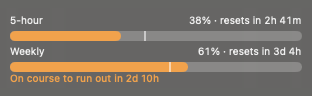
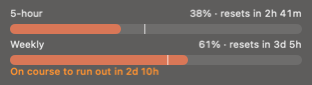
README: 0.7.0 screenshots (#18)
The four README screenshots were from before Codex support, the tool
colours and the plan badges; the Usage one still showed an 'Update to
0.5.2' footer. Replace them with the renders made for the website's
0.7.0 refresh, from the real views on fabricated data, and describe
them accordingly.

diff --git a/README.md b/README.md
@@ -6,7 +6,7 @@ A macOS menu bar app that shows how much of your Claude plan's limits you've use
 every Claude Code account on your Mac at once. More at
 [dpurdy.me/apps/headroom](https://dpurdy.me/apps/headroom/).
 
-<img src="assets/screenshots/usage.png" width="340" alt="The Headroom menu: one card per account with 5-hour and weekly bars, pace lines, reset countdowns, today's cost, and open sessions with prompt cache countdowns">
+<img src="assets/screenshots/usage.png" width="340" alt="The Headroom menu: a Claude card in terracotta and a Codex card in blue, each with 5-hour and weekly bars, a pace line on each and reset countdowns; the Claude card adds a model's own weekly limit, extra usage, today's cost and the open sessions with their prompt cache countdowns">
 
 - **5-hour and weekly limits** per account, with reset countdowns. The menu bar shows one
   column per account: its label beside two small bars with percentages, 5-hour on top and
@@ -14,7 +14,7 @@ every Claude Code account on your Mac at once. More at
 - **Pace** for each limit: a line showing how much of the window has passed, and when you'd
   run out if you carry on at the rate so far.
 
-  <img src="assets/screenshots/pace.png" width="312" alt="A 5-hour bar at 38%, ahead of its pace line, and a weekly bar at 61%, with a note that it will run out in 2 days 10 hours at this rate">
+  <img src="assets/screenshots/pace.png" width="312" alt="A 5-hour bar at 38% with the pace line ahead of it, and a weekly bar at 61% with the line behind it and the note 'On course to run out in 2d 10h'">
 - **Open Claude Code sessions** per account, with model and context used. Sessions that
   haven't replied for 15 minutes are marked idle.
 - **Prompt cache countdown** per session: how long until the conversation's cache goes cold,
@@ -22,7 +22,7 @@ every Claude Code account on your Mac at once. More at
   notified 5 minutes before. A warning marks a session whose cache missed in the last hour,
   with Claude Code's guess at why. Needs Claude Code 2.1.251 or later.
 
-  <img src="assets/screenshots/cache.png" width="312" alt="Three open sessions: one with 47 minutes of cache left and a warning, one being watched with 4 minutes left, and one with a cold cache">
+  <img src="assets/screenshots/cache.png" width="312" alt="Three open sessions: one with 47 minutes of cache left and a warning, one being watched with 4 minutes left, and one whose cache has gone cold">
 - **Usage alerts** (optional): a notification when a limit passes 80% or 90%, and again when
   it resets.
 - **Today's API-equivalent cost** per account, as estimated by Claude Code. It is not what
@@ -31,7 +31,7 @@ every Claude Code account on your Mac at once. More at
   weekly usage, and the conversations with replies in that time, with how much of each limit
   they used.
 
-  <img src="assets/screenshots/history.png" width="340" alt="The History page over 7 days, with a usage chart per account, totals, and each conversation's share of the limits">
+  <img src="assets/screenshots/history.png" width="340" alt="The History page over 7 days: a chart per account of 5-hour and weekly usage, totals, then each conversation's share of the limits">
 - **Optional Live usage** per account, which also catches use from claude.ai, the desktop
   app and other devices, and adds what claude.ai's usage page shows beyond the two limits: a
   model's own weekly limit (such as Fable's), your extra usage this month, and where this
